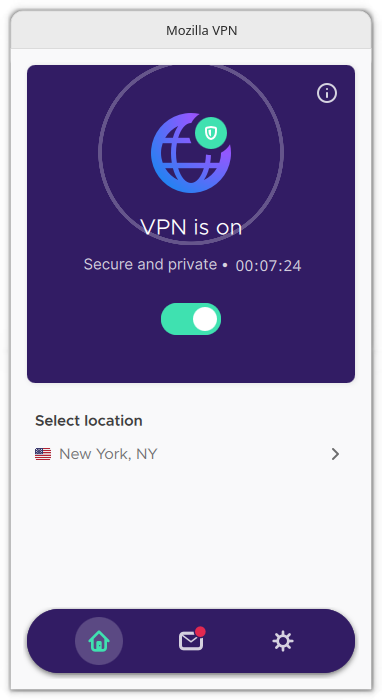
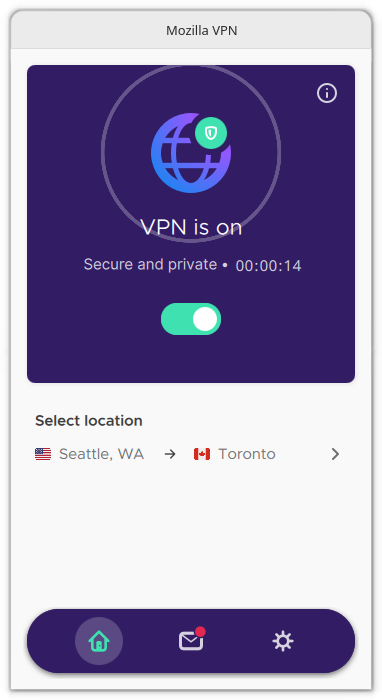
Add more screenshots and set metainfo screenshot URLs

diff --git a/README.md b/README.md
@@ -7,7 +7,7 @@ security, we will always put your privacy first._
 
 See: https://vpn.mozilla.org
 
-![Mozilla VPN Connected to New York](docs/screenshots/linux-screenshot-home-active.png) ![Mozilla VPN Server Selection](docs/screenshots/linux-screenshot-server-selection.png)
+![Mozilla VPN Connected to New York](docs/screenshots/linux-screenshot-home-active.png) ![Mozilla VPN Server Selection](docs/screenshots/linux-screenshot-selection-multihop.png)
 
 ## Getting Involved
 
